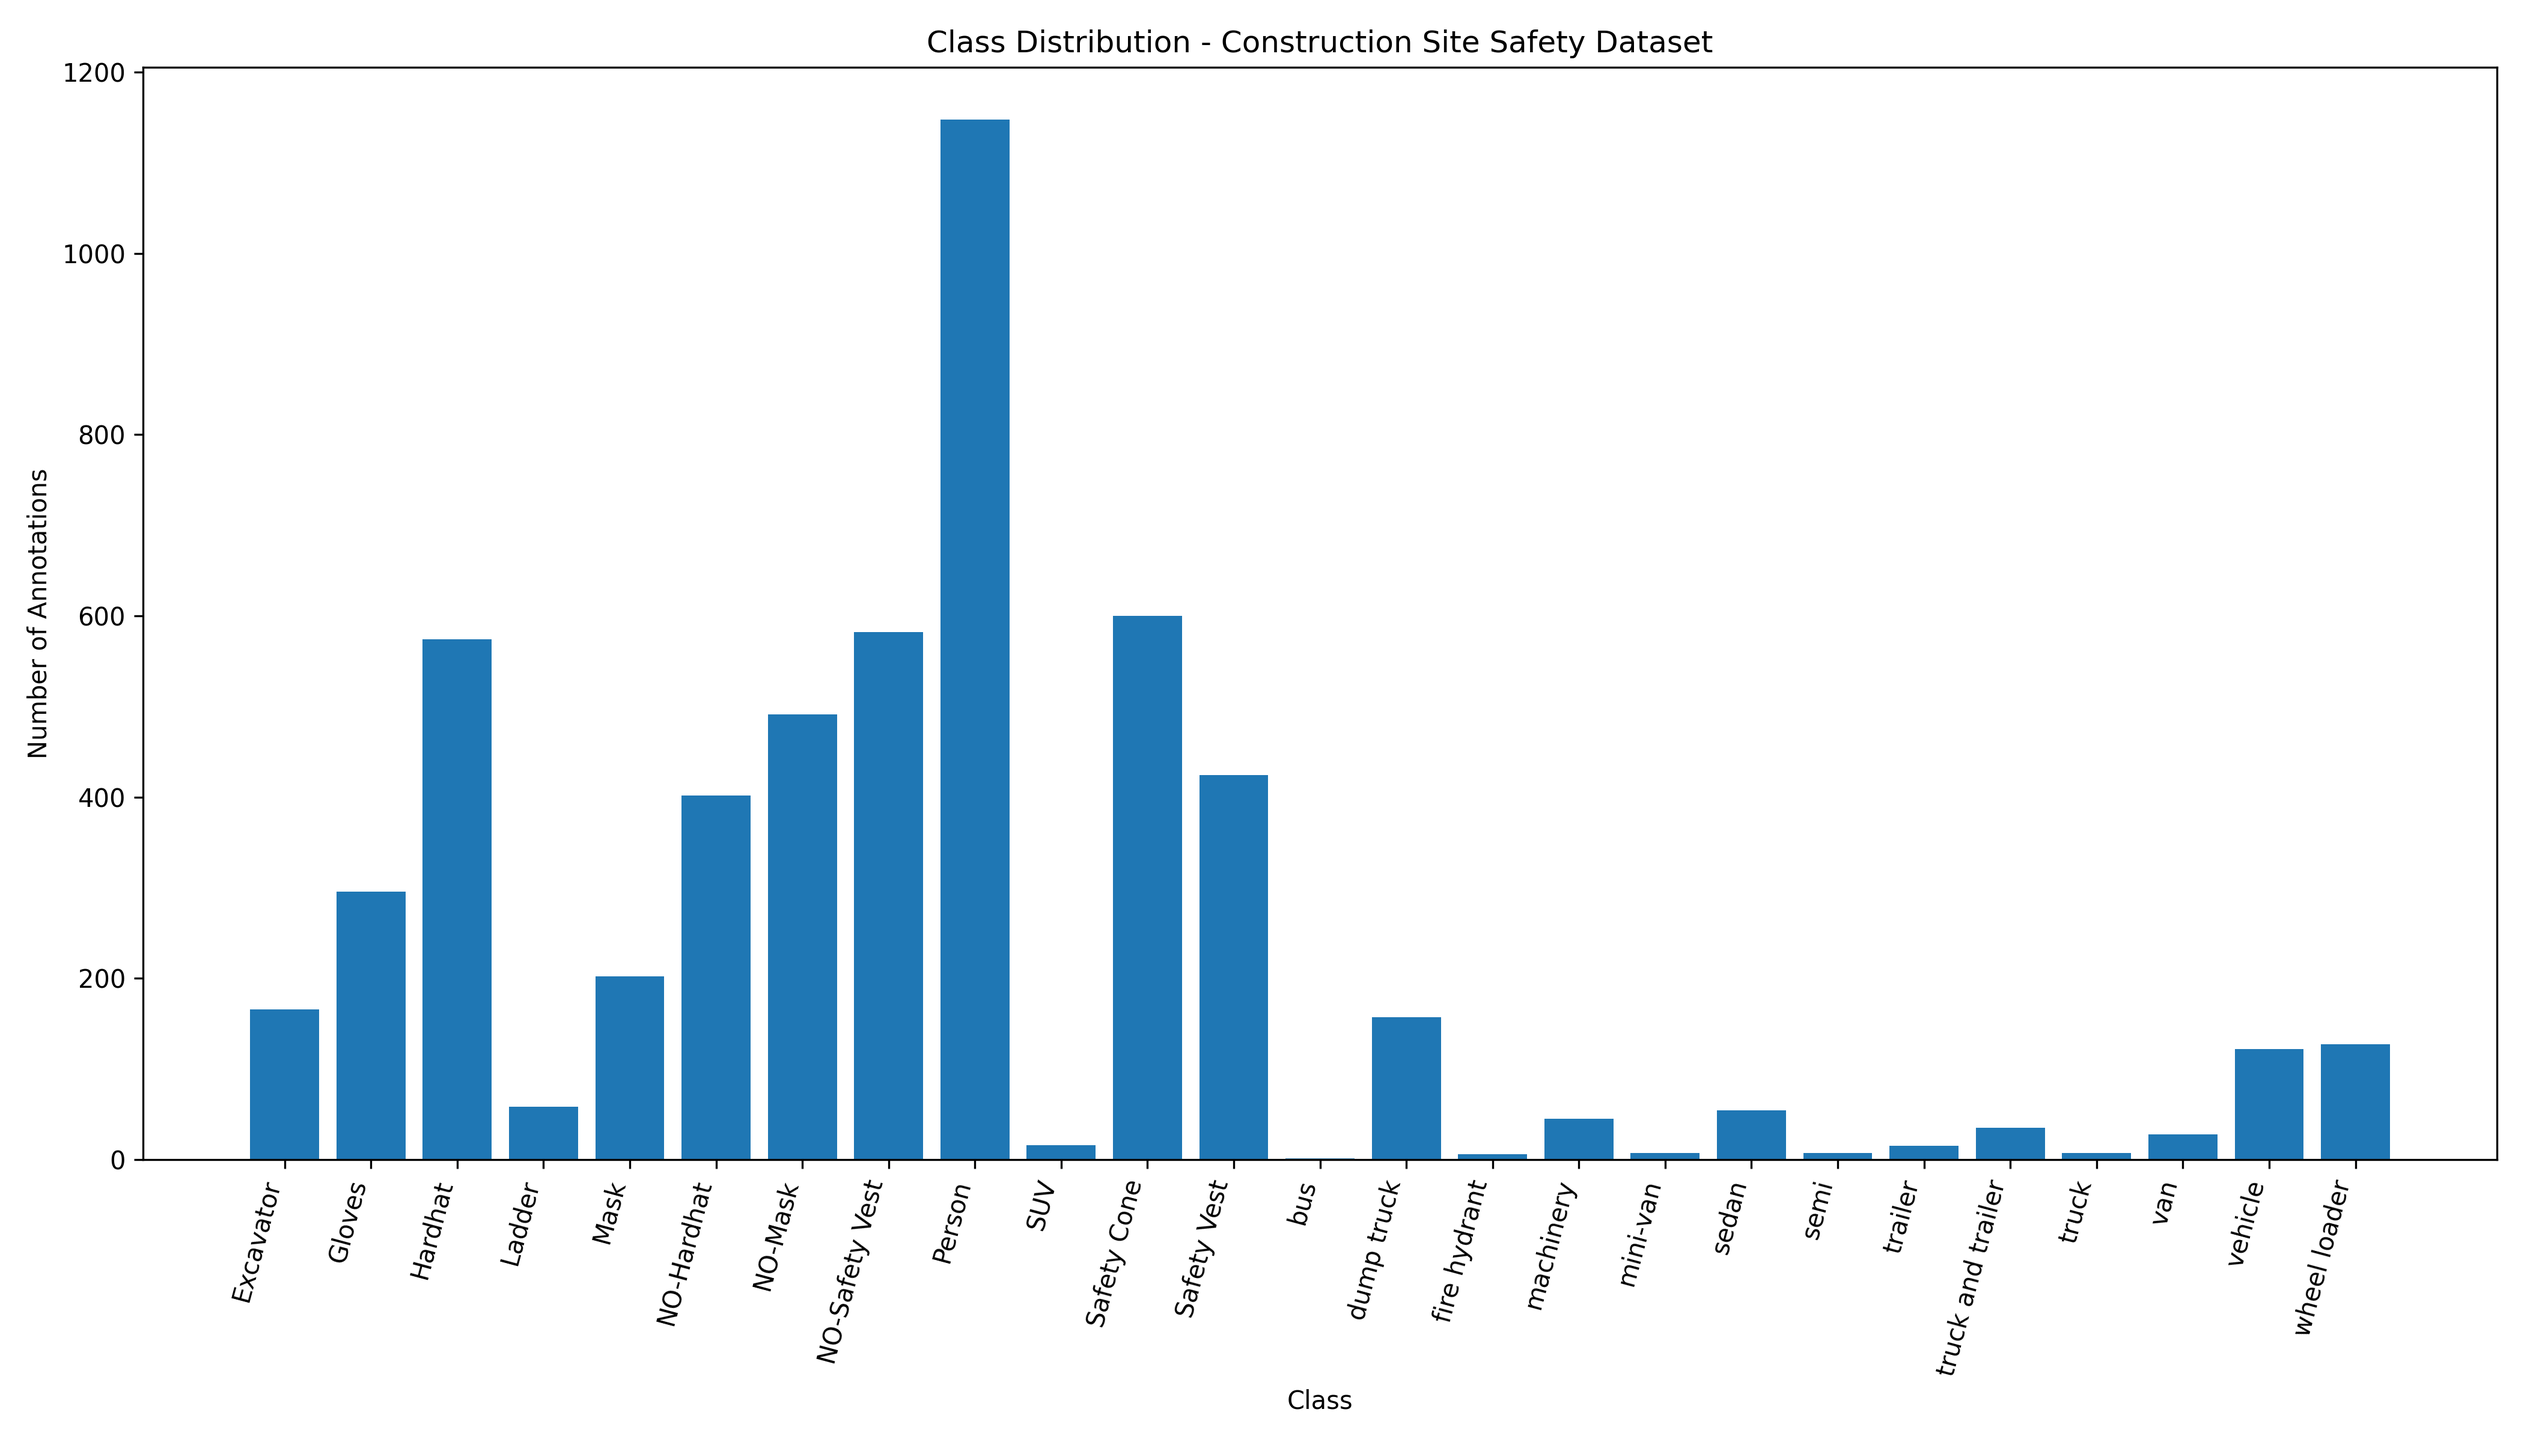
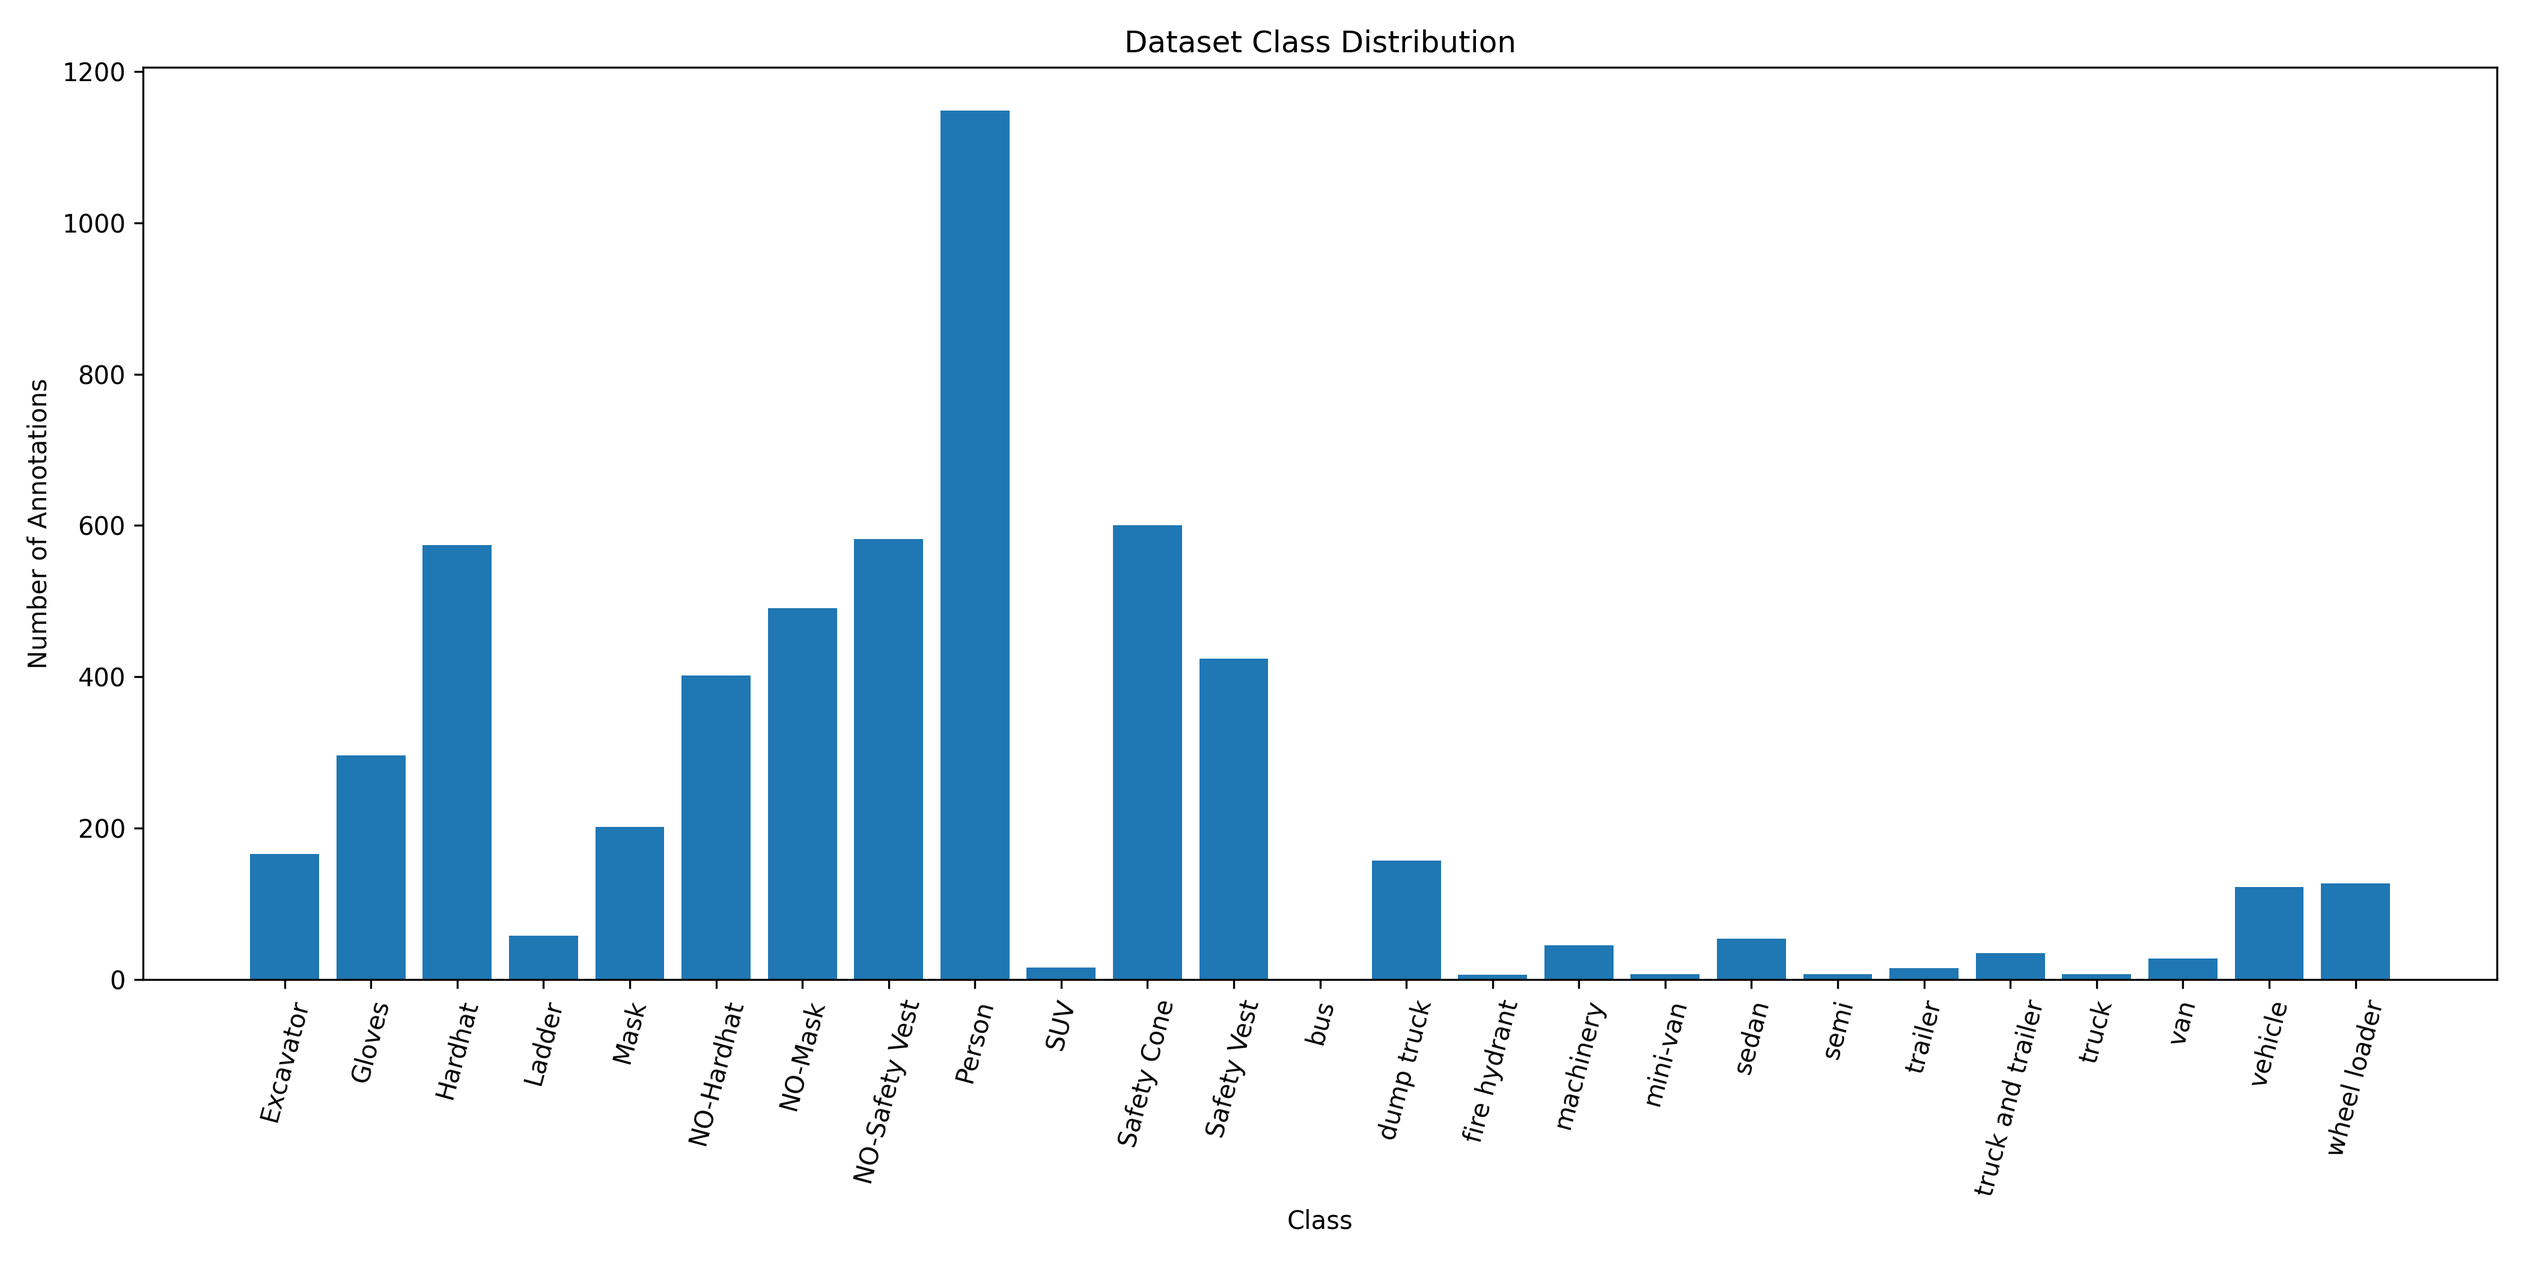
Add dataset validation and class distribution analysis

diff --git a/src/preprocessing/validate_annotations.py b/src/preprocessing/validate_annotations.py
@@ -1,0 +1,104 @@
+from pathlib import Path
+
+# Dataset paths
+DATASET_DIR = Path("dataset")
+
+SPLITS = ["train", "valid", "test"]
+
+# Dataset has 25 classes: IDs 0 to 24
+NUM_CLASSES = 25
+
+total_files = 0
+total_annotations = 0
+errors = []
+
+for split in SPLITS:
+    labels_dir = DATASET_DIR / split / "labels"
+
+    if not labels_dir.exists():
+        errors.append(f"Missing labels directory: {labels_dir}")
+        continue
+
+    for label_file in labels_dir.glob("*.txt"):
+        total_files += 1
+
+        try:
+            with open(label_file, "r", encoding="utf-8") as f:
+                lines = f.readlines()
+
+            for line_number, line in enumerate(lines, start=1):
+                line = line.strip()
+
+                # Ignore empty lines
+                if not line:
+                    continue
+
+                parts = line.split()
+
+                # YOLO format must contain:
+                # class_id x_center y_center width height
+                if len(parts) != 5:
+                    errors.append(
+                        f"{label_file}: line {line_number} "
+                        f"has {len(parts)} values instead of 5"
+                    )
+                    continue
+
+                try:
+                    class_id = int(parts[0])
+                    x_center = float(parts[1])
+                    y_center = float(parts[2])
+                    width = float(parts[3])
+                    height = float(parts[4])
+                except ValueError:
+                    errors.append(
+                        f"{label_file}: line {line_number} "
+                        f"contains non-numeric values"
+                    )
+                    continue
+
+                # Check class ID
+                if not 0 <= class_id < NUM_CLASSES:
+                    errors.append(
+                        f"{label_file}: line {line_number} "
+                        f"has invalid class ID {class_id}"
+                    )
+
+                # Check normalized coordinates
+                values = {
+                    "x_center": x_center,
+                    "y_center": y_center,
+                    "width": width,
+                    "height": height,
+                }
+
+                for name, value in values.items():
+                    if not 0 <= value <= 1:
+                        errors.append(
+                            f"{label_file}: line {line_number} "
+                            f"has {name}={value}, outside [0, 1]"
+                        )
+
+                total_annotations += 1
+
+        except Exception as e:
+            errors.append(f"{label_file}: {e}")
+
+print("\n========== YOLO ANNOTATION VALIDATION ==========")
+print(f"Label files checked: {total_files}")
+print(f"Annotations checked: {total_annotations}")
+print(f"Errors found: {len(errors)}")
+
+if errors:
+    print("\n---------- ERRORS ----------")
+    for error in errors[:50]:
+        print(error)
+
+    if len(errors) > 50:
+        print(f"\n... and {len(errors) - 50} more errors.")
+
+    print("\n❌ Annotation validation FAILED.")
+else:
+    print("\n✅ All YOLO annotations are valid.")
+    print("✅ Class IDs are within the expected range.")
+    print("✅ Bounding-box values are normalized between 0 and 1.")

diff --git a/src/preprocessing/class_distribution.py b/src/preprocessing/class_distribution.py
@@ -1,0 +1,73 @@
+from pathlib import Path
+import matplotlib.pyplot as plt
+
+DATASET_DIR = Path("dataset")
+OUTPUT_DIR = Path("results/plots")
+OUTPUT_DIR.mkdir(parents=True, exist_ok=True)
+
+CLASS_NAMES = [
+    "Excavator",
+    "Gloves",
+    "Hardhat",
+    "Ladder",
+    "Mask",
+    "NO-Hardhat",
+    "NO-Mask",
+    "NO-Safety Vest",
+    "Person",
+    "SUV",
+    "Safety Cone",
+    "Safety Vest",
+    "bus",
+    "dump truck",
+    "fire hydrant",
+    "machinery",
+    "mini-van",
+    "sedan",
+    "semi",
+    "trailer",
+    "truck and trailer",
+    "truck",
+    "van",
+    "vehicle",
+    "wheel loader"
+]
+
+counts = [0] * len(CLASS_NAMES)
+
+for split in ["train", "valid", "test"]:
+    labels_dir = DATASET_DIR / split / "labels"
+
+    for label_file in labels_dir.glob("*.txt"):
+        with open(label_file, "r", encoding="utf-8") as f:
+            for line in f:
+                parts = line.strip().split()
+
+                if len(parts) == 5:
+                    class_id = int(parts[0])
+
+                    if 0 <= class_id < len(CLASS_NAMES):
+                        counts[class_id] += 1
+
+print("\n========== CLASS DISTRIBUTION ==========")
+
+for name, count in zip(CLASS_NAMES, counts):
+    print(f"{name}: {count}")
+
+print(f"\nTotal annotations: {sum(counts)}")
+
+plt.figure(figsize=(14, 7))
+plt.bar(CLASS_NAMES, counts)
+
+plt.xlabel("Class")
+plt.ylabel("Number of Annotations")
+plt.title("Dataset Class Distribution")
+
+plt.xticks(rotation=75)
+plt.tight_layout()
+
+output_file = OUTPUT_DIR / "class_distribution.png"
+plt.savefig(output_file, dpi=300)
+plt.close()
+
+print(f"\nChart saved to: {output_file}")

diff --git a/docs/Augmentation_Report.md b/docs/Augmentation_Report.md
@@ -1,0 +1,202 @@
+\# Preprocessing and Augmentation Report
+
+
+
+\## 1. Dataset Preparation
+
+
+
+The Construction Site Safety dataset contains 717 images divided into training,
+
+validation, and testing subsets.
+
+
+
+| Split | Images | Labels |
+
+|---|---:|---:|
+
+| Train | 521 | 521 |
+
+| Validation | 114 | 114 |
+
+| Test | 82 | 82 |
+
+| Total | 717 | 717 |
+
+
+
+The dataset contains 25 object classes and 5,570 annotated objects.
+
+
+
+\## 2. Annotation Validation
+
+
+
+The YOLO annotation files were automatically validated before model development.
+
+
+
+The validation checked:
+
+
+
+\- Correct YOLO annotation format
+
+\- Five values per annotation
+
+\- Valid class IDs from 0 to 24
+
+\- Normalized bounding-box coordinates
+
+\- Values within the range 0 to 1
+
+
+
+A total of 717 label files and 5,570 annotations were checked.
+
+
+
+\*\*Validation result: 0 errors.\*\*
+
+
+
+\## 3. Class Distribution
+
+
+
+The dataset contains different numbers of annotations for each class.
+
+
+
+The most frequent class is `Person` with 1,148 annotations, while some classes
+
+have very few examples. For example, `bus` has only 1 annotation.
+
+
+
+This indicates class imbalance in the dataset and is considered when interpreting
+
+model performance.
+
+
+
+The class distribution chart is available at:
+
+
+
+`results/plots/class\_distribution.png`
+
+
+
+\## 4. Preprocessing
+
+
+
+The dataset uses YOLO-format annotations.
+
+
+
+Images are resized to 640 × 640 pixels during the YOLO training pipeline.
+
+Bounding-box coordinates remain normalized according to the YOLO annotation format.
+
+
+
+The original train, validation, and test sets are kept separate to prevent
+
+data leakage during evaluation.
+
+
+
+\## 5. Data Augmentation
+
+
+
+Data augmentation is used during model training to improve robustness to
+
+variations commonly found in construction-site environments.
+
+
+
+The augmentation strategy considers:
+
+
+
+\- Horizontal flipping
+
+\- HSV/color variation
+
+\- Scaling
+
+\- Translation
+
+\- Mosaic augmentation
+
+
+
+These transformations can expose the model to changes in lighting, viewpoint,
+
+object position, and scene composition.
+
+
+
+Augmentation is applied to the training data only. Validation and test data
+
+remain unchanged for fair model evaluation.
+
+
+
+\## 6. Purpose of Augmentation
+
+
+
+Construction-site images can contain:
+
+
+
+\- Different lighting conditions
+
+\- Different camera viewpoints
+
+\- Occluded workers
+
+\- Different object scales
+
+\- Crowded scenes
+
+\- PPE partially hidden by other objects
+
+
+
+The selected augmentation techniques are intended to improve the model's
+
+ability to generalize to these variations.
+
+
+
+\## 7. Dataset Quality Summary
+
+
+
+The dataset verification found:
+
+
+
+\- 717 images
+
+\- 717 corresponding label files
+
+\- 5,570 annotations
+
+\- 25 classes
+
+\- 0 annotation validation errors
+
+
+
+Therefore, the dataset is structurally suitable for the subsequent model
+
+training and evaluation stages.
+
